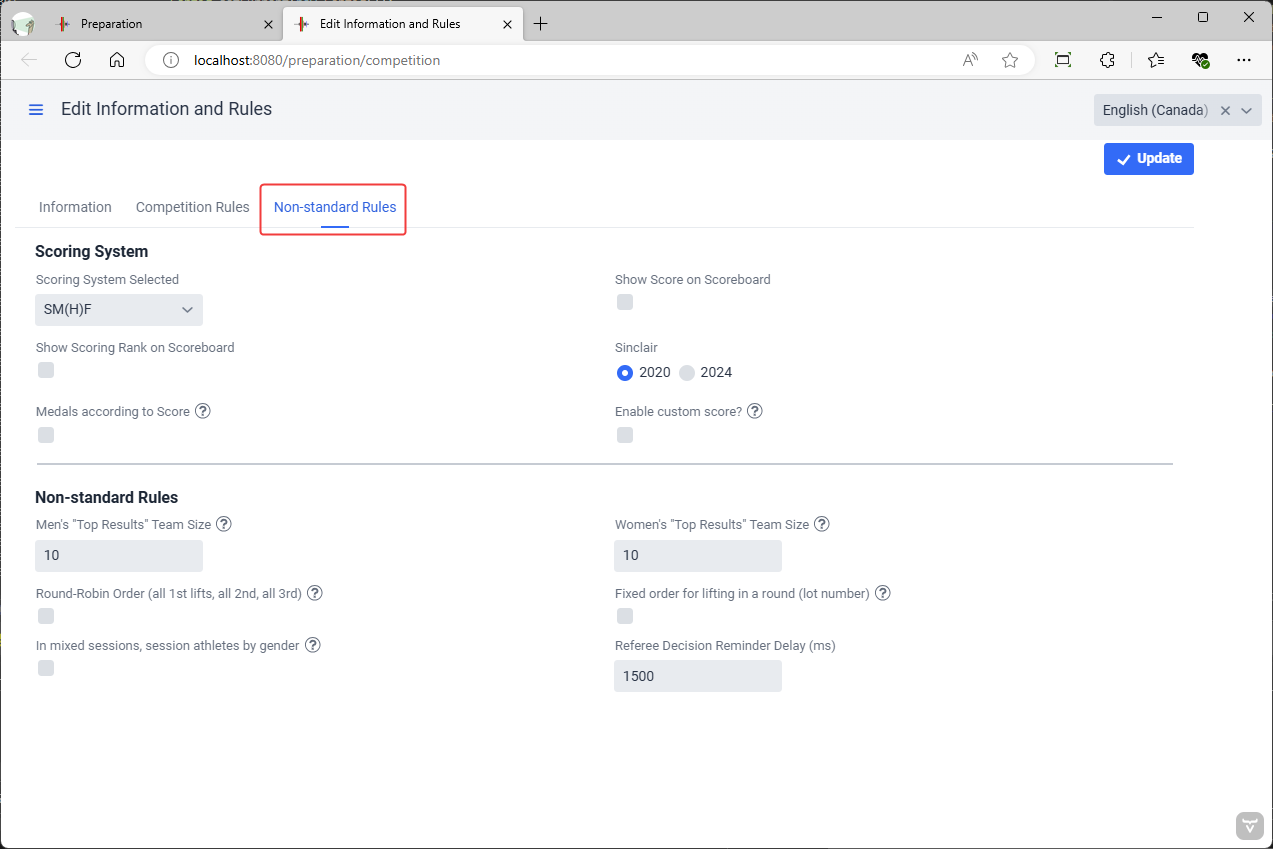
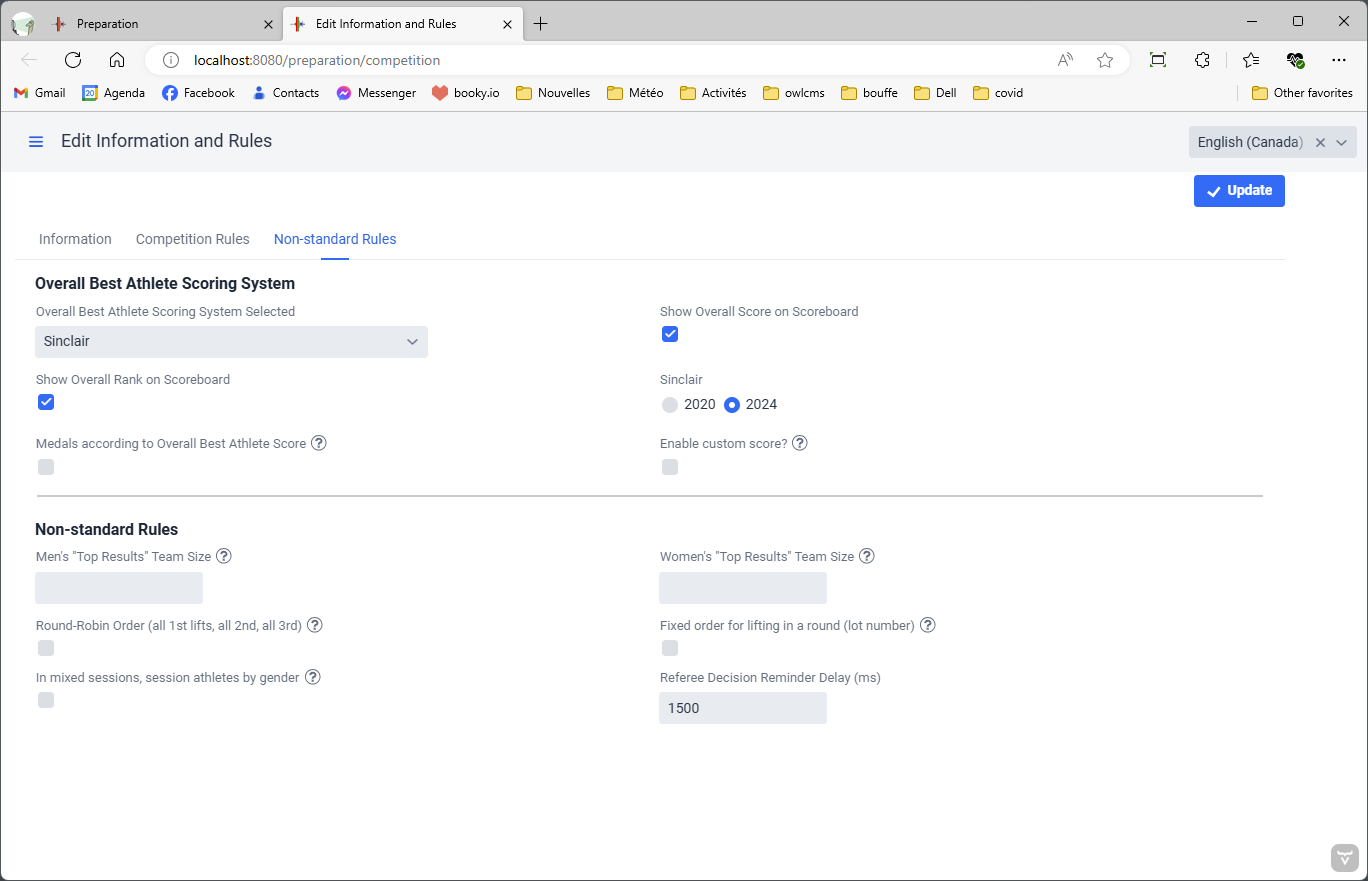
Fixed documentation for overall best lifter and score-based medals

diff --git a/docs/ScoreBasedCompetitions.md b/docs/ScoreBasedCompetitions.md
@@ -1,11 +1,11 @@
-It is often desirable to rank all athletes in an age group on a score.  Examples include:
+It is sometimes desirable to award medals for all athletes in an age group on a score.  Examples include:
 
-- Masters of all bodyweights in a given age group are ranked according to their SM(H)F score, instead or in addition to the normal medals per weight class. This makes it more interesting because in many Masters competitions there are not enough athletes in each bodyweight class and everyone gets a medal.
-- Kids of given age groups compete all together based on a formula such as the Huebner Adjusted Totals.  This applies a factor based on a statistical analysis of young athletes that showed that age and body weight affect strength *together* for young athletes.  Sinclair coefficients are for older high-performance athletes, and SM(H)F factors are the same for all body weights, which is not correct for youth.
+- Masters of all bodyweights in a given age group could be ranked according to their SM(H)F score. You could them have 3 medals for the full age group, instead of giving gold to each weight class.  In fact, you could have both the normal medals and the medals per age group.  You could even create a special age group for all the athletes between 30 and 50 and give medals for young Masters. Whatever option you like.
+- Kids of given age groups compete all together based on a formula such as the Q-youth Age-Adjusted Totals.  This applies a factor based on a statistical analysis of young athletes where age and bodyweight are considered *together* for young athletes.   You can award the medals based on that formula.
 
 #### Exporting the Current Definitions
 
-Currently, creating such a competition requires editing an AgeGroups definition file using Excel.  The easiest way to get started is to export the current ones, as follows.
+Currently, creating such special medal awards requires editing the AgeGroups definition file using Excel.  The easiest way to get started is to export the current ones, as follows.
 
 ![10menu](img/ScoreBased/10menu.png)
 
@@ -32,7 +32,7 @@ If you exported the definitions as explained above, this column will be present.
 
 ![30Youth](img/ScoreBased/30Youth.png)
 
-- Column H includes the desired scoring system.  For kid/youth/junior ages, this would be `AGEFACTORS` to use Huebner statistical factors to adjust the total based on both age and body weight.  Other choices can be `BW_SINCLAIR` (body weight sinclair), `CAT_SINCLAIR` (Sinclair computed at the category weight), `ROBI` or `GAMX` (though these last two don't make much sense for young kids.)  If the cell is empty, the score is the `TOTAL` according to IWF rules.
+- Column H includes the desired scoring system.  For kid/youth/junior ages, this would be `AGEFACTORS` to use the Huebner Q-youth quantitative statistical factors. Other choices can be `BW_SINCLAIR` (body weight sinclair), `CAT_SINCLAIR` (Sinclair computed at the category weight), `ROBI` or `GAMX`   If the cell is empty, the score is the `TOTAL` according to IWF rules.
 - Column A gives this special category a new code.  In this example, the `A` prefix indicates "all bodyweights".
 - Column B indicates that you can produce the Final Package for all the `AgeFactors` together.  This would allow you to easily grant a `Best Lifter` award for all the groups in a championship.
 - Column I indicates that there is a single bodyweight category from 0 to 999 kg.  All athletes fall in that single category.

diff --git a/docs/2600AdvancedPreCompetitionSetup.md b/docs/2600AdvancedPreCompetitionSetup.md
@@ -44,19 +44,22 @@ Additional options are used when running team, kid, or virtual competitions.
 
 ![40](nimg/2100PreCompetitionSetup/40.png)
 
-- Scoring System
-  - `Scoring System Selected` determines several things
-    - On the results screens, the scoring system will be shown, in addition to Sinclair and Robi
-    - If the `Show Score on Scoreboard` option is used, this is the score that will be shown.
-
-  - `Show Score on Scoreboard` and `Show Scoring Rank on Scoreboard` are used in two different situations:
-    - when there is a best lifter award in play, and the global ranking is desired
-    - Note that when the options to create age groups with all bodyweights enabled, and medals are attributed according to score within each group), this option will be turned on automatically for the sessions concerned and there is nothing to do.
-
+- Overall Best Athlete Scoring System
+  - `Overall Best Athlete Scoring System` determines two things
+    
+    - On the Competition Results page, this will be the default scoring system shown in the table.
+    - If the `Show Overall Score on Scoreboard` option is used, this is the score that will be shown.
+    
+  - `Show Overall Score on Scoreboard` and `Show Overall Rank on Scoreboard` is used when there is a best lifter award in play, and the global ranking is desired
+  
+    > Note: if you have selected to [award medals based on a scoring system](ScoreBasedCompetitions) the score columns will be shown automatically, but this will be used for the score used for the medals in that category. If there is no scoring system selected for medals, the total will be used as the score, otherwise, the medal scoring system chosen for the category will be used.
+  
   - The `Sinclair` setting determines which version of the coefficients is used.  The 2020 coefficients (issued in 2017) were used until the new ones were issued in fall 2022.  This setting does ***not*** affect the Masters SMF and SMHF coefficients.
+  
   - (deprecated) `Medals according to Score` gives out medals for the whole competition based on the selected scoring system (for example, the 3 best Sinclair across all Sessions). This is the same as using the [Score-based Competitions]() capability, with all men in a single open category (all ages and all bodyweights together), and all women likewise. Using the score-based category approach is more flexible as you can have separate age groups if you wish, and also award the normal medals.
+  
   - `Enable Custom Score` This adds a box on the Athlete Card where a custom score can be entered.  This will typically add bonus points or subtract penalty points.  This is sometimes used for kid competitions where bonuses are given for 5/6 or 6/6 performances.
-
+  
 - Non-Standard Rules
   - `Top Results Team Sizes`  in some competitions, points are awarded as usual, but the teams are not pre-determined. Instead, the best "n" athletes point scores are counted towards the team total (e.g. 15 athletes are entered for a team, but the best 10 point results are kept for the team score)
   - `Group Athletes by Gender`  When hosting kid competitions, it is common to group kids in mixed groups according to age or weight. This setting makes all girls go first to avoid changing bars.

diff --git a/docs/_sidebar.md b/docs/_sidebar.md
@@ -19,7 +19,7 @@
   * [Breaks and Ceremonies](Breaks)
   * [Result Documents](ResultDocuments)
   * [Optional Modified Competition Rules](ModifiedRules)
-  * [Score-based Rankings](ScoreBasedCompetitions)
+  * [Score-based Medals](ScoreBasedCompetitions)
 * Advanced Topics
   * [Competition Options Reference](2600AdvancedPreCompetitionSetup)
   * [System Settings Reference](2120AdvancedSystemSettings)
